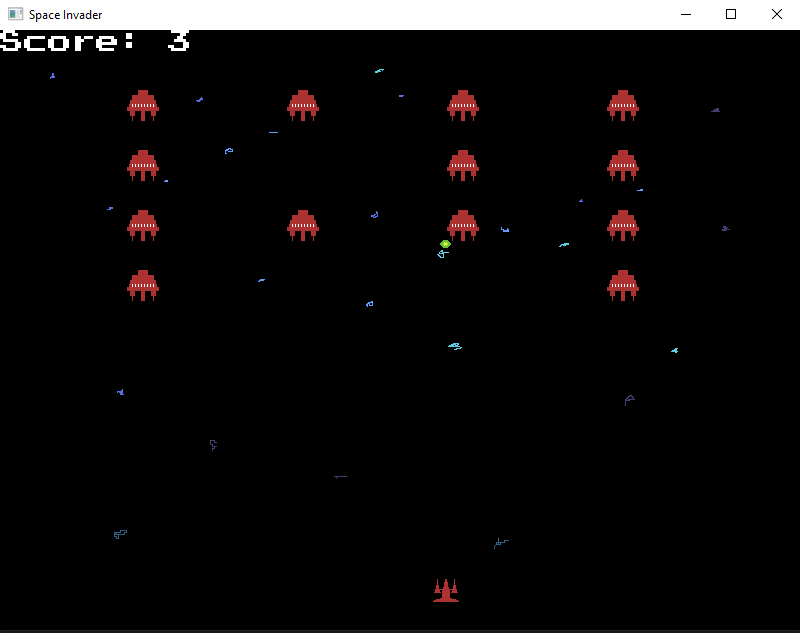
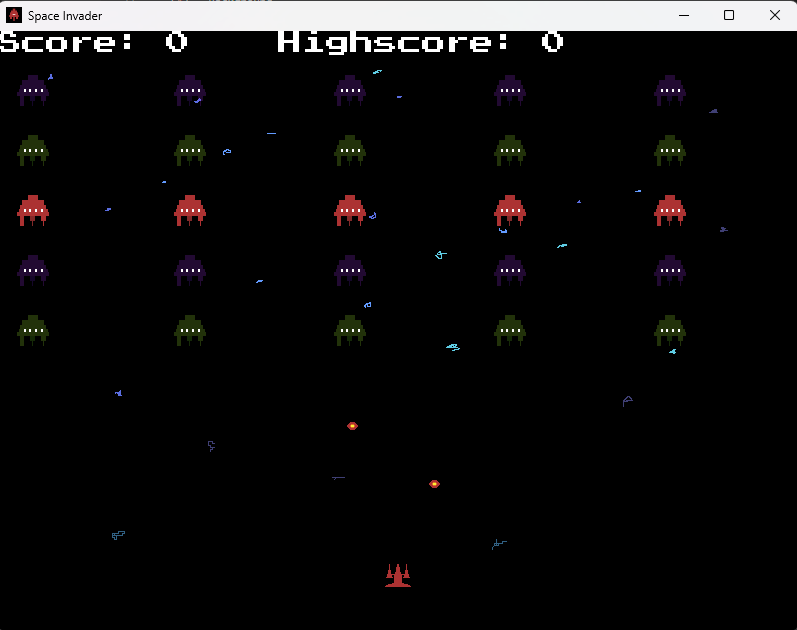
Updating README

diff --git a/README.md b/README.md
@@ -16,7 +16,7 @@
 
 - [X] - More rows of enemies.
 
-- [X] - Enemies shoots projectiles.
+- [X] - Enemies shoots directioned projectiles.
 
 - [X] - Menu and Pause.
 
@@ -28,7 +28,8 @@
 - Button **A** for moving the ship left.
 - Button **D** for moving the ship right.
 - Button **Space** for shooting.
-- Butotn **P** for pausing the game.
+- Button **P** for pausing the game.
+- Button **Enter** for respawning from GAME OVER screen.
 
 ### Images:
 ![](/images/screenshoot.png)
